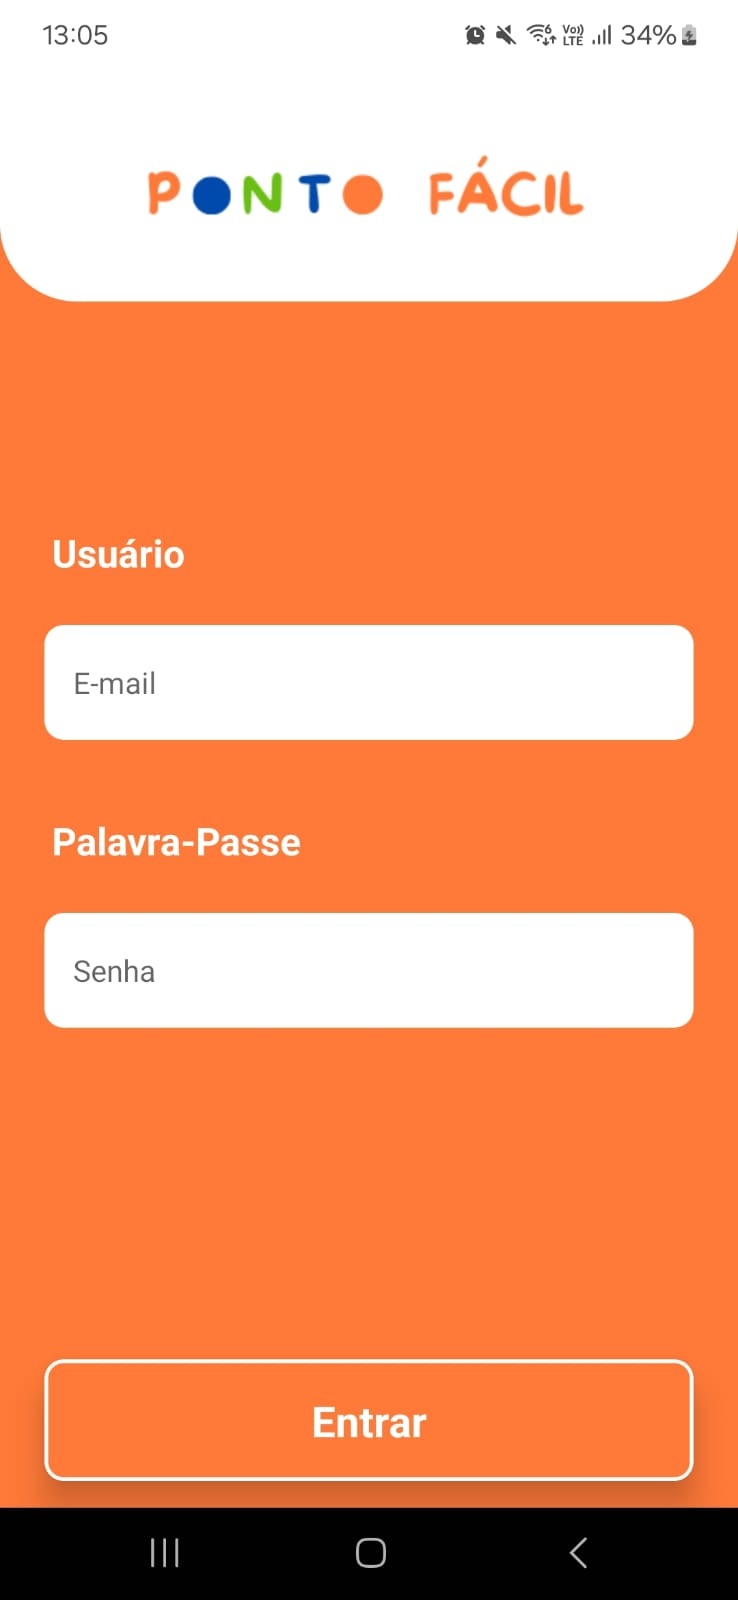
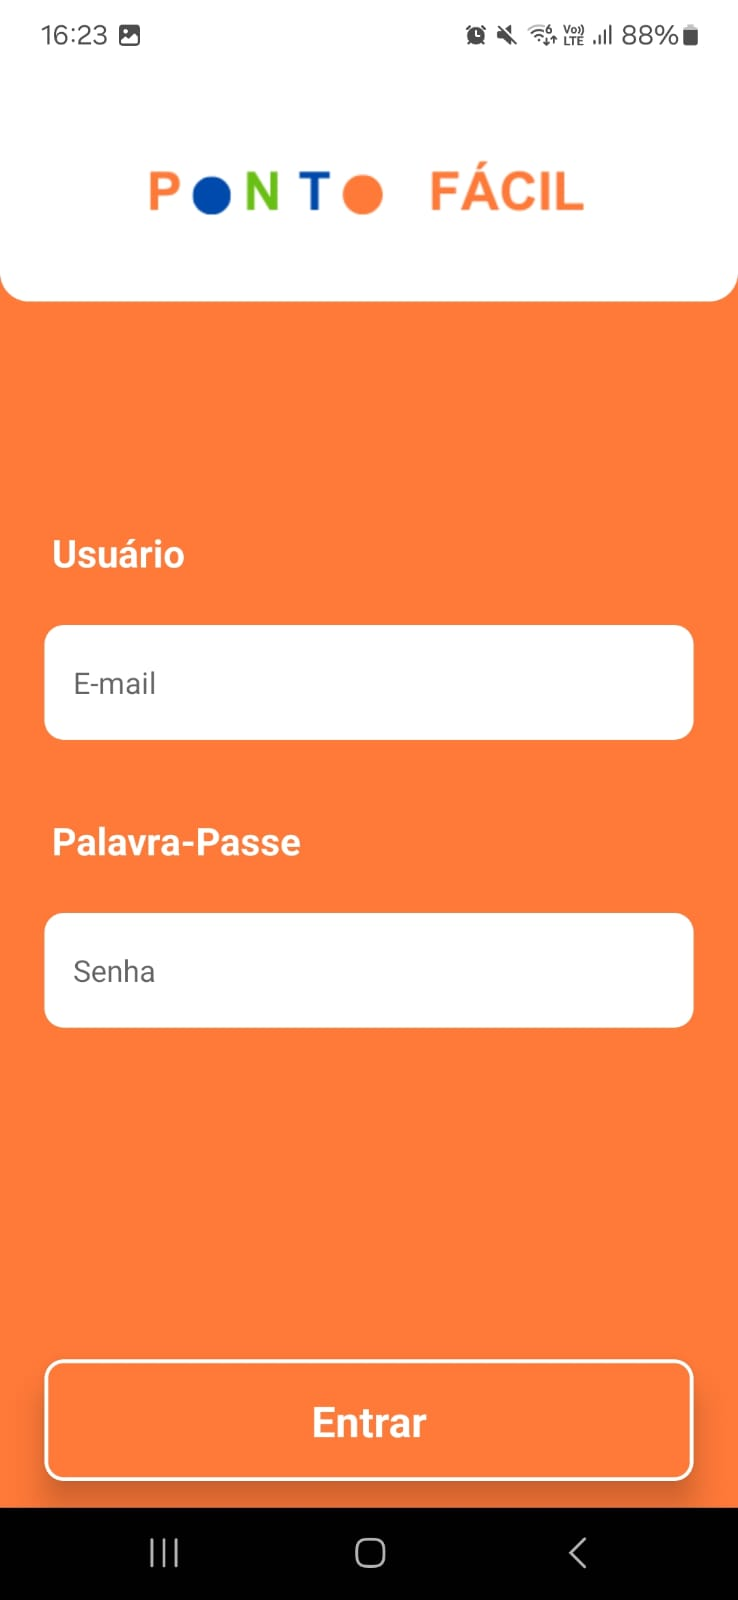
update

diff --git a/src/screens/Login.js b/src/screens/Login.js
@@ -9,7 +9,7 @@ import {
 } from "react-native";
 import axios from "axios";
 import { useState } from "react";
-import backgroundImage from "../../assets/images/login.png";
+import backgroundImage from "../../assets/images/img-login.png";
 import AsyncStorage from "@react-native-async-storage/async-storage";
 
 export default function Login({ navigation }) {
@@ -124,8 +124,8 @@ const estilos = StyleSheet.create({
     alignItems: "center",
     width: "auto",
     height: "20%",
-    borderBottomLeftRadius: 40,
-    borderBottomRightRadius: 40,
+    borderBottomLeftRadius: 15,
+    borderBottomRightRadius: 15,
   },
   formulario: {
     padding: 23,
